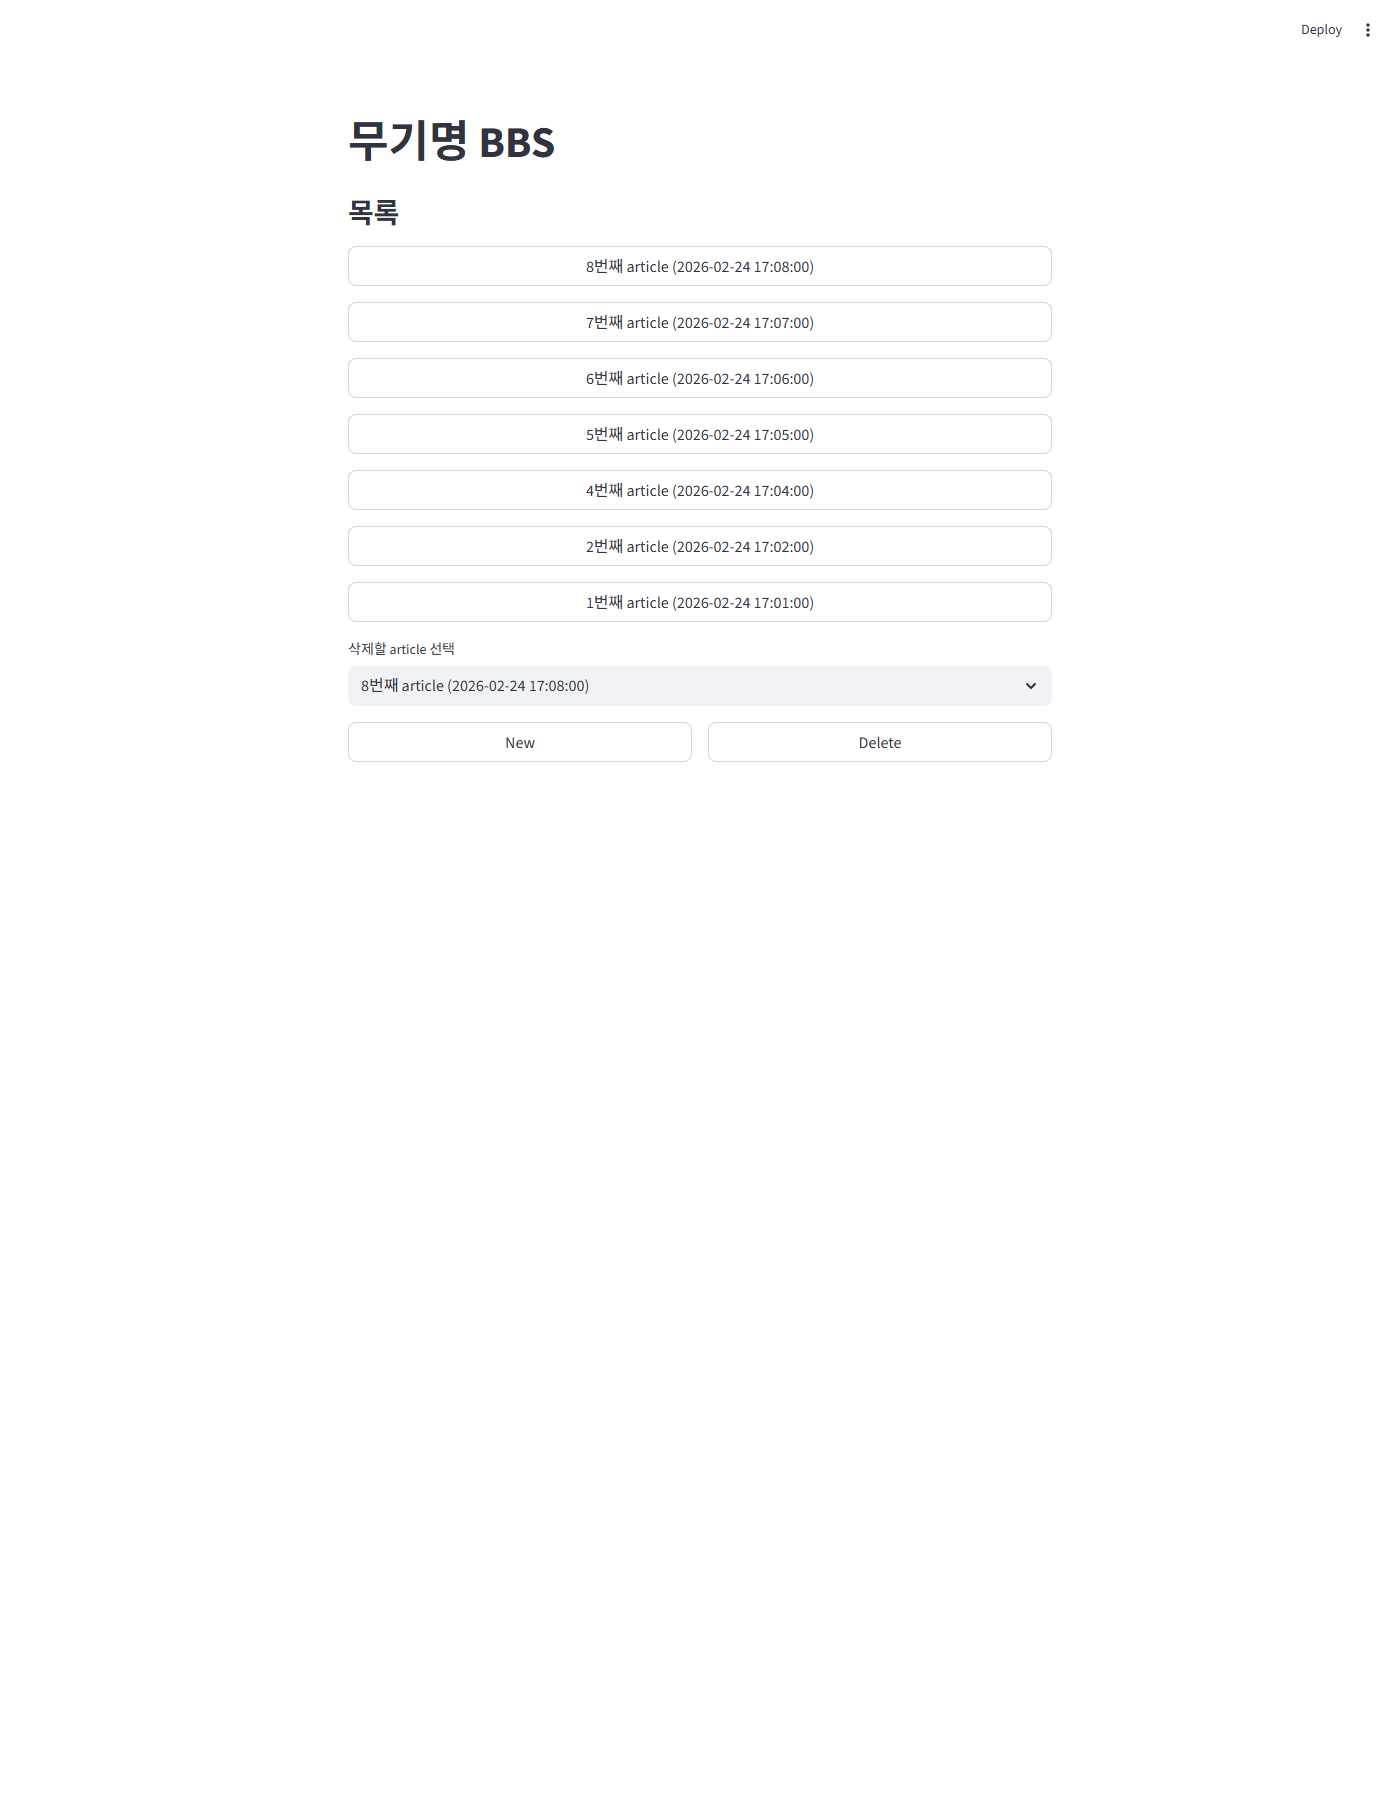
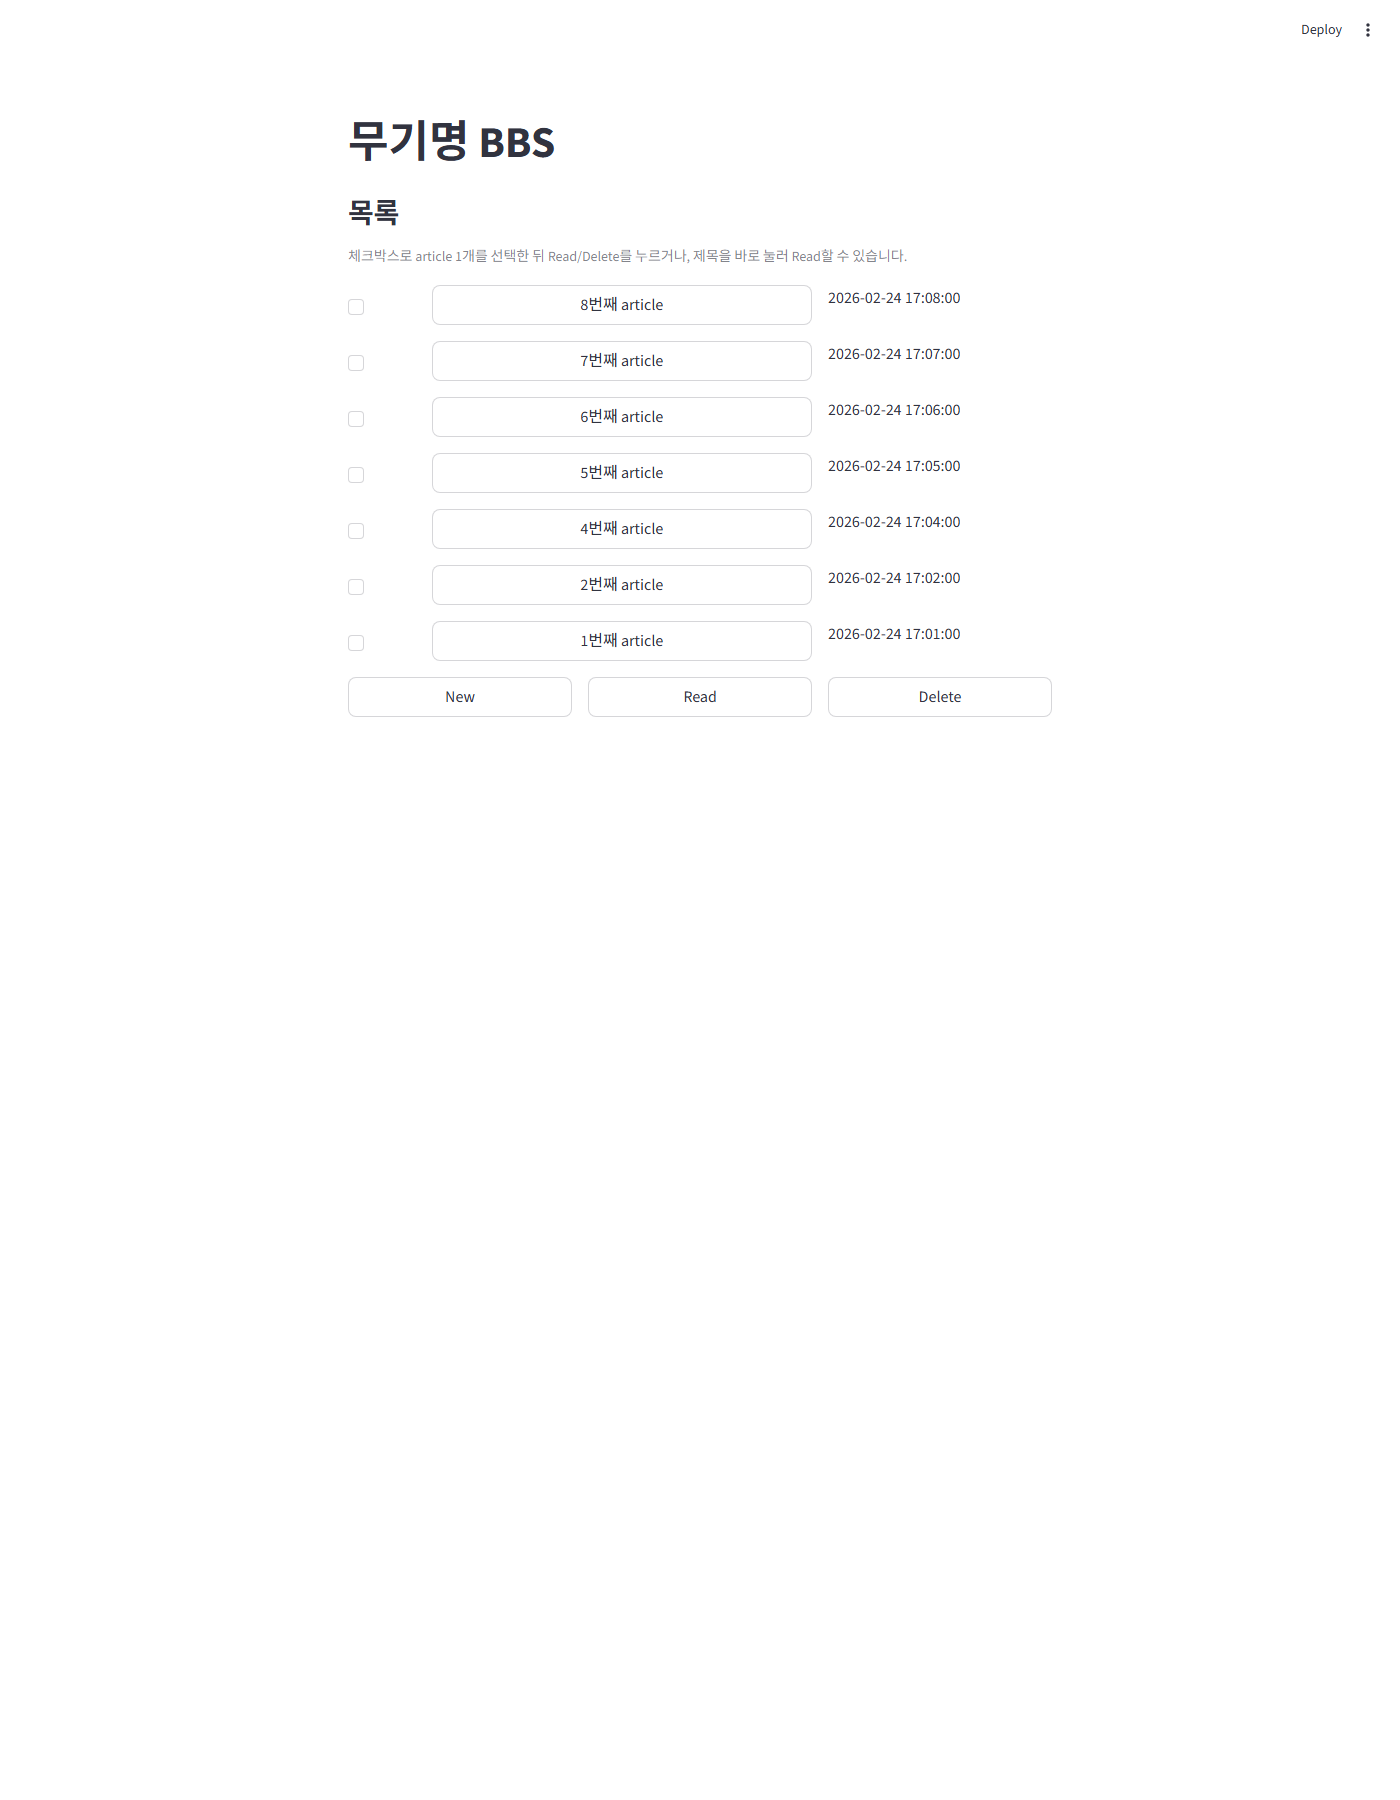
Update DAY2_VIBE checkbox list UI and refreshed captures

diff --git a/DAY2_VIBE/streamlit_app.py b/DAY2_VIBE/streamlit_app.py
@@ -8,6 +8,21 @@ import streamlit as st
 API_BASE_URL = os.getenv("BBS_API_BASE_URL", "http://127.0.0.1:8000")
 
 
+def handle_article_checkbox_change(changed_article_id: int, article_ids: list[int]) -> None:
+    changed_key = f"select-{changed_article_id}"
+    changed_checked = bool(st.session_state.get(changed_key, False))
+
+    if changed_checked:
+        for article_id in article_ids:
+            if article_id != changed_article_id:
+                st.session_state[f"select-{article_id}"] = False
+        st.session_state.selected_action_id = changed_article_id
+        return
+
+    if st.session_state.selected_action_id == changed_article_id:
+        st.session_state.selected_action_id = None
+
+
 def api_get_list() -> list[list[int | str]]:
     response = requests.get(f"{API_BASE_URL}/articles", timeout=5)
     response.raise_for_status()
@@ -41,8 +56,8 @@ if "screen" not in st.session_state:
     st.session_state.screen = "list"
 if "selected_article_id" not in st.session_state:
     st.session_state.selected_article_id = None
-if "selected_delete_id" not in st.session_state:
-    st.session_state.selected_delete_id = None
+if "selected_action_id" not in st.session_state:
+    st.session_state.selected_action_id = None
 
 st.title("무기명 BBS")
 
@@ -52,41 +67,81 @@ if st.session_state.screen == "list":
         articles = api_get_list()
         if not articles:
             st.info("게시글이 없습니다.")
-        for article_id, title, created_time in articles:
-            if st.button(
-                f"{title} ({created_time})",
-                key=f"article-{article_id}",
-                use_container_width=True,
-            ):
-                st.session_state.selected_article_id = int(article_id)
-                st.session_state.screen = "view"
-                st.rerun()
-
+            st.session_state.selected_action_id = None
         if articles:
-            article_options = {
-                f"{title} ({created_time})": int(article_id)
-                for article_id, title, created_time in articles
-            }
-            selected_label = st.selectbox("삭제할 article 선택", options=list(article_options.keys()))
-            st.session_state.selected_delete_id = article_options[selected_label]
+            article_ids = [int(article_id) for article_id, _, _ in articles]
+            if st.session_state.selected_action_id not in article_ids:
+                st.session_state.selected_action_id = None
+
+            checkbox_keys = {f"select-{article_id}" for article_id in article_ids}
+            stale_keys = [
+                key for key in st.session_state.keys() if key.startswith("select-") and key not in checkbox_keys
+            ]
+            for key in stale_keys:
+                del st.session_state[key]
+
+            st.caption("체크박스로 article 1개를 선택한 뒤 Read/Delete를 누르거나, 제목을 바로 눌러 Read할 수 있습니다.")
+            for article_id, title, created_time in articles:
+                normalized_article_id = int(article_id)
+                checkbox_key = f"select-{normalized_article_id}"
+                if checkbox_key not in st.session_state:
+                    st.session_state[checkbox_key] = (
+                        st.session_state.selected_action_id == normalized_article_id
+                    )
+
+                col_check, col_title, col_time = st.columns([1, 5, 3])
+                with col_check:
+                    st.checkbox(
+                        "선택",
+                        key=checkbox_key,
+                        label_visibility="collapsed",
+                        on_change=handle_article_checkbox_change,
+                        args=(normalized_article_id, article_ids),
+                    )
+                with col_title:
+                    if st.button(
+                        title,
+                        key=f"title-read-{normalized_article_id}",
+                        use_container_width=True,
+                    ):
+                        st.session_state.selected_article_id = normalized_article_id
+                        st.session_state.screen = "view"
+                        st.rerun()
+                with col_time:
+                    st.write(str(created_time))
+
+            selected_id = st.session_state.selected_action_id
+            if selected_id is not None and not st.session_state.get(f"select-{selected_id}", False):
+                st.session_state.selected_action_id = None
     except requests.RequestException:
         st.error("API 서버 연결에 실패했습니다.")
 
-    col1, col2 = st.columns(2)
+    col1, col2, col3 = st.columns(3)
     with col1:
         if st.button("New", use_container_width=True):
             st.session_state.screen = "new"
             st.rerun()
     with col2:
+        if st.button("Read", use_container_width=True):
+            if st.session_state.selected_action_id is None:
+                st.error("읽을 article을 선택해 주세요.")
+            else:
+                st.session_state.selected_article_id = int(st.session_state.selected_action_id)
+                st.session_state.screen = "view"
+                st.rerun()
+    with col3:
         if st.button("Delete", use_container_width=True):
-            delete_id = st.session_state.selected_delete_id
+            delete_id = st.session_state.selected_action_id
             if delete_id is None:
                 st.error("삭제할 article을 선택해 주세요.")
             else:
                 try:
                     success = api_delete_article(delete_id)
                     if success:
-                        st.session_state.selected_delete_id = None
+                        checkbox_key = f"select-{delete_id}"
+                        if checkbox_key in st.session_state:
+                            st.session_state[checkbox_key] = False
+                        st.session_state.selected_action_id = None
                         st.rerun()
                     else:
                         st.error("삭제에 실패했습니다.")

diff --git a/DAY2_VIBE/README.md b/DAY2_VIBE/README.md
@@ -2,8 +2,8 @@
 
 ## 목표
 
-무기명 게시판 BBS 기능을 개발한다. 최신 10개의 article만 관리하며, 각 article은 제목 (한글 20자 이내), 작성시각 time, 본문 (한글 200자 이내) 로 이루어져있다. 3개의 화면 (목록, article 열람, article 생성) 으로 구성되어있고, 목록에서 article을 선택 후 열람하거나 삭제가 가능하다.
-
+무기명 게시판 BBS 기능을 개발한다. 최신 10개의 article만 관리하며, 각 article은 제목 (한글 20자 이내), 작성시각 time, 본문 (한글 200자 이내) 로 이루어져있다. 3개의 화면 (목록, article 열람, article 생성) 으로 구성되어있고, 목록에서 check box로 article을 하나 선택 후 read 또는 delete 할 수 있고, 제목을 바로 누르면 read로 간주한다.
+목록의 UI는 https://sl.bing.net/en6PKPPlyLs 와 같이 한다. (각 행마다 checkbox 와 제목, time 순서대로 나온다)
 
 ## 사용 기술
 
@@ -17,8 +17,8 @@
 
 3개의 화면으로 구성되어있다. 서비스 최초 진입시에는 목록화면을 보여준다.
 
-* 목록 조회 : article 의 제목과 time을 생성 순서대로 보여주며, 가장 최신의 10개만 관리하며, 그전의 오래된 article은 삭제한다. 목록 밑에 New 버튼 및 Delete 버튼을 제공한다.
-* article 열람 : 목록에서 article의 제목을 눌러서 선택하면 article의 제목, time, 본문을 보여준다. 아래에 List 버튼을 누르면 목록 화면으로 돌아간다.
+* 목록 조회 : article 의 제목과 time을 생성 순서대로 보여주며, 가장 최신의 10개만 관리하며, 그전의 오래된 article은 삭제한다. article마다 제목 왼쪽에 check box가 있어서 어느 하나만 삭제가 가능하다. 목록 밑에 New 버튼, Read 버튼, Delete 버튼을 제공한다. article의 check box로 선택하면 그 다음 Read 또는 Delete 를 할 수 있고, 제목을 누르면 Read 로 간주한다.
+* article 열람 : 목록에서 article의 Read를 선택하면 article의 제목, time, 본문을 보여준다. 아래에 List 버튼을 누르면 목록 화면으로 돌아간다.
 * article 생성 : New 버튼을 누르면, article 작성 창으로 바뀌며, 제목 (한글 20자 이내) 및 본문 (한글 200자 이내) 를 작성할수 있는 필드가 있고, 아래에 Post, Cancel 의 두개 버튼이 있다. Post 버튼을 누르면, 그때의 시각을 time 값으로 하고, 작성한 article을 목록에 추가하며 목록 화면으로 돌아가고, Cancel 버튼은 작성중이던 내용을 버리고 목록 화면으로 돌아간다. 
 
 ## 조건
